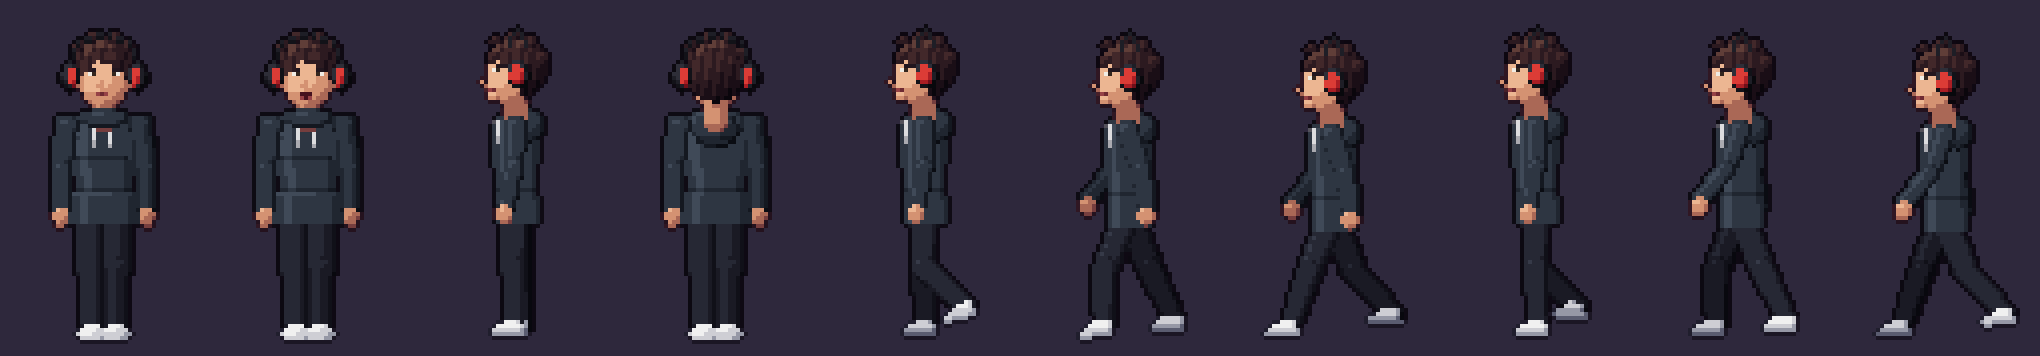
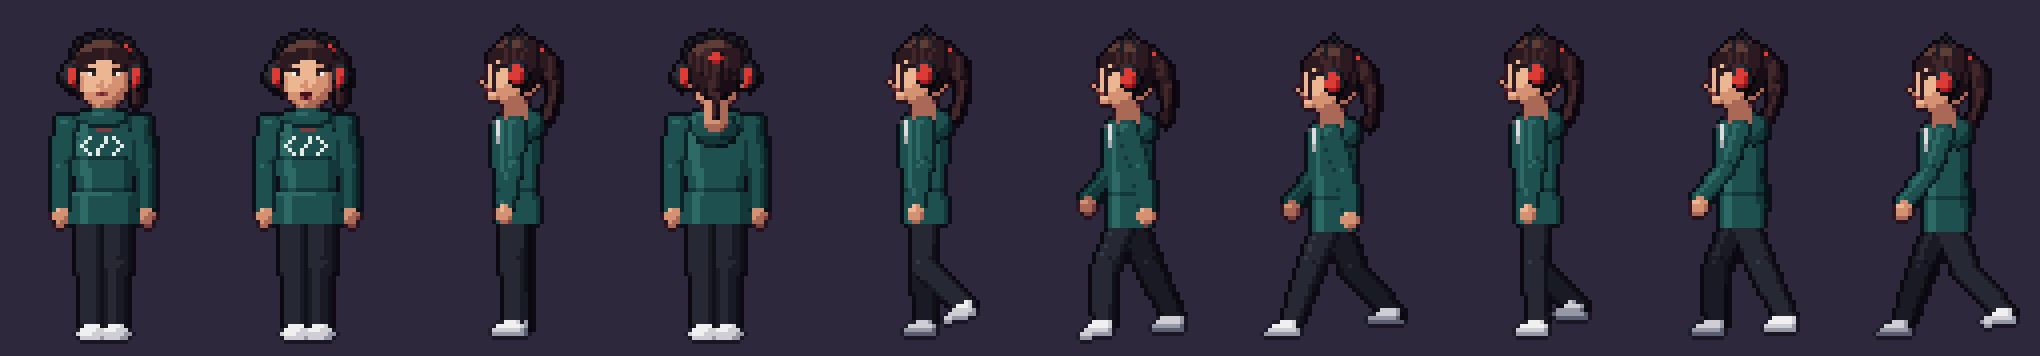
Art, proposta B: paret de maó lila, el pòster del gat i el 404, i l'Iri noia amb cua i dessuadora verd petroli amb «</>»

diff --git a/adapters/benne/tools/hd/personatges_b.py b/adapters/benne/tools/hd/personatges_b.py
@@ -1,45 +1,68 @@
 """
 Proposta B: personatges de Suma Zero **sense caricatura**, amb les proporcions i el dibuix de Ferro-9
 (hd/characters.py: volum, llum i trama). Una persona fa ≈83 px; fotograma de 49×87, peus a (25, 83).
-To urbà, de hacker i d'espies: colors apagats (grafit, negre, texà fosc) i un sol accent fort per
-personatge (els auriculars vermells de l'Iri).
+To urbà, de hacker i d'espies: colors apagats i un accent fort per personatge. L'Iri: dessuadora verd
+petroli amb «</>» al pit, texans negres, auriculars vermells i cabell negre recollit en una cua.
 """
 import math
 
-from hd.characters import (Fig, M, person, hair_lvl, front_normal, fold, SKIN_IRI, SNEAKER, BELT, HAIR_IRI)
+from hd.characters import (Fig, M, Pose, person, hair_lvl, front_normal, fold, SKIN_IRI, SNEAKER, BELT, HAIR_IRI)
 
 # ─── Materials ─────────────────────────────────────────────────────────────
-HOODIE = M((10, 12, 18), (20, 24, 32), (32, 38, 48), (46, 54, 66), (64, 74, 88), (88, 100, 114), (118, 130, 142), dith=0.0)
+HOODIE = M((6, 20, 24), (12, 36, 40), (20, 56, 58), (30, 80, 80), (46, 106, 102), (70, 136, 126), (106, 170, 156), dith=0.0)
 JEANS_BLACK = M((8, 8, 14), (16, 16, 24), (26, 26, 36), (38, 40, 52), (54, 58, 72), (76, 80, 94), dith=0.0)
 PHONES = M((8, 8, 12), (18, 18, 24), (30, 30, 38), (46, 46, 56), (66, 66, 78))
 PHONES_RED = M((50, 6, 14), (110, 16, 26), (170, 30, 36), (220, 60, 54), (250, 120, 100))
 CORD = M((120, 120, 128), (170, 170, 176), (220, 220, 222), (250, 250, 250))
 HAIR_SHORT = HAIR_IRI
+SCRUNCHIE = PHONES_RED
 
 
 # ─── Iri: ganxos sobre la persona de Ferro-9 ───────────────────────────────
 
+def ponytail(fg, p, pts, H):
+    """Cua: segments que s'aprimen al llarg d'una corba, amb la goma vermella a dalt."""
+    n = len(pts)
+    for i, ((x0, y0), (x1, y1)) in enumerate(zip(pts, pts[1:])):
+        r0, r1 = 2.4 - i * 1.6 / n, 2.4 - (i + 1) * 1.6 / n
+        fg.limb((x0, y0), (x1, y1), r0, r1, H, 2.0, amp=1.6, cont=(0.2, 1.0),
+                lvlfn=lambda x, y: 0.4 * math.sin(x * 2.0 + y * 0.6))
+    x, y = pts[0]
+    fg.ell(x, y, 1.8, 1.4, SCRUNCHIE, 2.6, amp=1.2)
+
+
+def iri_hair_back(fg, p, spec):
+    """La cua, darrere del cap (de cara i de perfil)."""
+    hx, hy = p.head
+    sway = 0.0 if p.walk is None else math.sin(2 * math.pi * p.walk / 6) * 1.2
+    if p.f == 'D':
+        ponytail(fg, p, [(hx + 5.0, hy - 5.5), (hx + 8.4, hy - 2.0), (hx + 9.2 + sway * 0.3, hy + 3.0), (hx + 8.4 + sway * 0.6, hy + 8.0)], HAIR_SHORT)
+    elif p.f == 'L':
+        ponytail(fg, p, [(hx + 6.4, hy - 4.6), (hx + 9.6, hy - 1.6), (hx + 10.6 + sway * 0.5, hy + 3.6), (hx + 10.0 + sway, hy + 8.6), (hx + 9.0 + sway * 1.4, hy + 12.0)], HAIR_SHORT)
+
+
 def iri_hair(fg, p, spec):
-    """Cabell negre curt i esbullat, amb un serrell que li cau als ulls."""
+    """Cabell negre recollit en una cua alta, amb un serrell lateral i dos blens solts a la cara."""
     hx, hy = p.head
     H = HAIR_SHORT
-    tex = hair_lvl(hx - 0.5, hy - 2.0, 5.4, k=1.1, strands=0.5, freq=2.3)
+    tex = hair_lvl(hx - 0.5, hy - 2.0, 5.4, k=1.2, strands=0.45, freq=2.6)
     if p.f == 'D':
-        line = lambda x, y: y <= hy - 3.0 + ((x - hx) / 6.6) ** 2 * 5.5 + (1.4 if int(x) % 3 == 0 else 0)
-        fg.ell(hx, hy - 1.2, 7.6, 7.6, H, 1.8, amp=1.6, clip=line, lvlfn=tex)
-        for sx, sy in ((-6.4, -6.4), (-2.5, -8.6), (2.6, -8.4), (6.0, -6.6)):       # puntes
-            fg.ell(hx + sx, hy + sy, 1.6, 1.4, H, 2.0, amp=1.4)
-        fg.ell(hx + 2.2, hy - 3.2, 2.6, 1.6, H, 2.2, amp=1.2)                      # floc del serrell
+        line = lambda x, y: y <= hy - 3.4 + ((x - hx) / 6.8) ** 2 * 5.0
+        fg.ell(hx, hy - 1.4, 7.5, 7.4, H, 1.8, amp=1.6, clip=line, lvlfn=tex)
+        fg.poly([(hx - 6.6, hy - 4.0), (hx + 1.0, hy - 6.6), (hx - 1.0, hy - 2.6), (hx - 5.0, hy - 1.4)], H, 2.0)   # serrell
+        fg.limb((hx - 6.8, hy - 2.0), (hx - 6.4, hy + 5.0), 1.0, 0.6, H, 1.8, amp=1.2)                       # blens solts
+        fg.limb((hx + 6.8, hy - 2.0), (hx + 6.6, hy + 4.0), 1.0, 0.6, H, 1.6, amp=1.2)
     elif p.f == 'L':
-        line = lambda x, y: (x >= hx - 3.8 + max(0, y - (hy - 5)) * 0.3 or y <= hy - 4.8) and not (x < hx + 2.5 and y > hy - 1.5)
-        fg.ell(hx + 1.4, hy - 1.0, 7.4, 7.8, H, 1.8, amp=1.6, clip=line, lvlfn=tex)
-        for sx, sy in ((-4.0, -7.4), (0.5, -8.6), (4.8, -7.0), (7.4, -3.0)):
-            fg.ell(hx + sx, hy + sy, 1.6, 1.4, H, 2.0, amp=1.4)
-        fg.ell(hx - 4.6, hy - 3.2, 1.8, 1.4, H, 2.2, amp=1.2)
+        line = lambda x, y: (x >= hx - 3.4 + max(0, y - (hy - 5)) * 0.3 or y <= hy - 5.0) and not (x < hx + 2.5 and y > hy - 1.5)
+        fg.ell(hx + 1.2, hy - 1.2, 7.3, 7.4, H, 1.8, amp=1.6, clip=line, lvlfn=tex)
+        fg.poly([(hx - 5.6, hy - 4.4), (hx - 0.5, hy - 6.6), (hx - 2.0, hy - 2.4), (hx - 5.4, hy - 1.6)], H, 2.0)
+        fg.limb((hx - 4.6, hy - 2.0), (hx - 4.4, hy + 4.6), 0.9, 0.6, H, 1.8, amp=1.2)
     else:
-        fg.ell(hx, hy - 0.6, 7.6, 8.2, H, 1.8, amp=1.6, lvlfn=tex)
-        for sx, sy in ((-6.0, -6.4), (-2.0, -8.6), (3.0, -8.2), (6.4, -5.2)):
-            fg.ell(hx + sx, hy + sy, 1.6, 1.4, H, 2.0, amp=1.4)
+        fg.ell(hx, hy - 0.8, 7.5, 7.8, H, 1.8, amp=1.6, lvlfn=tex)
+        for x in range(int(hx - 5), int(hx + 6), 2):                              # pentinat cap a la goma
+            fg.shade(x, hy - 1 + abs(x - hx) * 0.3, -0.6, H)
+        sway = 0.0 if p.walk is None else math.sin(2 * math.pi * p.walk / 6) * 1.2
+        ponytail(fg, p, [(hx, hy - 3.6), (hx + 0.4, hy + 1.0), (hx + sway * 0.6, hy + 6.0), (hx + sway, hy + 11.0)], H)
 
 
 def iri_hoodie(fg, p, spec):
@@ -53,14 +76,15 @@ def iri_hoodie(fg, p, spec):
         for y in range(38 + b, 46 + b):
             fg.shade(hx - 6, y, -0.9, O)
             fg.shade(hx + 6, y, -0.9, O)
-        for y in range(29 + b, 36 + b):                                            # cordons
-            fg.px(hx - 2, y, CORD, 2 if y < 34 + b else 1)
-            fg.px(hx + 2, y, CORD, 2 if y < 35 + b else 1)
+        for y in range(28 + b, 30 + b):                                            # cordons
+            fg.px(hx - 3, y, CORD, 1)
+            fg.px(hx + 3, y, CORD, 1)
         for x in range(int(hx - 9), int(hx + 10)):                                 # cintura elàstica
             fg.shade(x, 46 + b, -1.0, O)
             fg.shade(x, 47 + b, 0.4, O)
         fg.shade(hx - 7, 33 + b, -0.6, O)
         fg.shade(hx + 7, 34 + b, -0.6, O)
+
     elif p.f == 'U':
         fg.ell(hx, 31 + b, 6.0, 4.6, O, 2.4, amp=1.6, cont=(0.2, 1.0))            # caputxa caiguda
         for x in range(int(hx - 4), int(hx + 5)):
@@ -104,7 +128,7 @@ def iri_phones(fg, p, spec):
 IRI = {
     'skin': SKIN_IRI, 'legs': JEANS_BLACK, 'top': HOODIE, 'shoes': SNEAKER, 'shoe_lvl': 3.4, 'lashes': True,
     'iris': (52, 38, 30), 'brow': (24, 16, 22), 'stoop': 1,
-    'hooks': {'hair': iri_hair, 'torso': iri_hoodie, 'collar': iri_collar, 'over': None},
+    'hooks': {'hair_back': iri_hair_back, 'hair': iri_hair, 'torso': iri_hoodie, 'collar': iri_collar, 'over': None},
 }
 
 
@@ -119,7 +143,19 @@ def iri(facing, walk=None, talk=False):
     hooks['hair'] = hair_and_phones
     del hooks['over']
     spec['hooks'] = hooks
-    return person(spec, facing, walk=walk, talk=talk)
+    img = person(spec, facing, walk=walk, talk=talk)
+    if facing == 'D':
+        # «</>» estampat al pit: es posa píxel a píxel al final, sense volum, perquè es llegeixi
+        b = Pose(facing, walk, talk, stoop=spec.get('stoop', 0)).bob
+        P = img.load()
+        for dx, dy in LOGO:
+            P[19 + dx, 33 + b + dy] = (226, 236, 228, 255)
+    return img
+
+
+# «</>» de 11×5
+LOGO = ((2, 0), (1, 1), (0, 2), (1, 3), (2, 4), (6, 0), (6, 1), (5, 2), (4, 3), (4, 4),
+        (8, 0), (9, 1), (10, 2), (9, 3), (8, 4))
 
 
 # ─── Diu, el gat (amb volum) ───────────────────────────────────────────────

diff --git a/adapters/benne/tools/hd/rooms/pis_estudi_b.py b/adapters/benne/tools/hd/rooms/pis_estudi_b.py
@@ -3,17 +3,17 @@ Proposta B: l'estudi de l'Iri **sense caricatura**, amb to urbà de hacker i d'e
 
 La mateixa habitació i la mateixa disposició que la proposta A (hd/rooms/pis_estudi.py), però:
   - **escala real** dels mobles, per a personatges de ≈83 px (escriptori a l'altura del maluc);
-  - **paleta freda i apagada**: maó pintat de gris blavós, negres, i la llum ve de les pantalles (cian) i
-    del neó del carrer (magenta), que entra per les **persianes** i pinta franges a la paret;
+  - **maó pintat de lila**, negres, i la llum ve de les pantalles (cian) i del neó del carrer (magenta),
+    que entra per les **persianes** i pinta franges a la paret; el pòster del gat i el 404 de la proposta A;
   - pluja al vidre, i contorns només on cal (com a Ferro-9).
 """
 import math
 
 from hd.pix import Light, Canvas, W, H, hr
-from hd.rooms.pis_estudi import (obox, outline, cable, _diff, PLASTIC, SCREEN, SKY, CITY, NEON, SHEET, GRAYC, YEL, CARD)
+from hd.rooms.pis_estudi import (poster, obox, outline, cable, _diff, PLASTIC, SCREEN, SKY, CITY, NEON, SHEET, GRAYC, YEL, CARD)
 
-BRICK = [(10, 12, 18), (16, 20, 28), (24, 28, 38), (32, 38, 50), (42, 50, 64), (54, 64, 80), (70, 82, 98), (90, 104, 120)]
-MORTAR = [(8, 10, 14), (14, 16, 22), (20, 24, 30), (28, 32, 40), (38, 42, 50)]
+BRICK = [(16, 10, 24), (24, 16, 36), (34, 24, 50), (46, 32, 64), (60, 44, 80), (76, 58, 96), (96, 76, 114), (120, 98, 134)]
+MORTAR = [(10, 6, 16), (16, 10, 24), (24, 16, 34), (34, 24, 46), (46, 34, 58)]
 FLOORB = [(8, 8, 12), (14, 14, 20), (22, 22, 30), (32, 30, 40), (44, 42, 52), (58, 56, 66), (76, 72, 82)]
 DESKB = [(6, 6, 10), (12, 12, 18), (20, 20, 28), (30, 30, 40), (42, 42, 54), (58, 58, 72), (78, 78, 92)]
 STEELB = [(10, 12, 16), (20, 24, 30), (34, 38, 46), (50, 56, 66), (70, 78, 90), (96, 104, 116), (130, 138, 150)]
@@ -240,7 +240,7 @@ def bg(cv):
     wall(cv)
     floor(cv)
     window(cv)
-    wall_map(cv)
+    poster(cv)
     neon_stripes(cv)
     mattress(cv)
     pizza_stack(cv)
